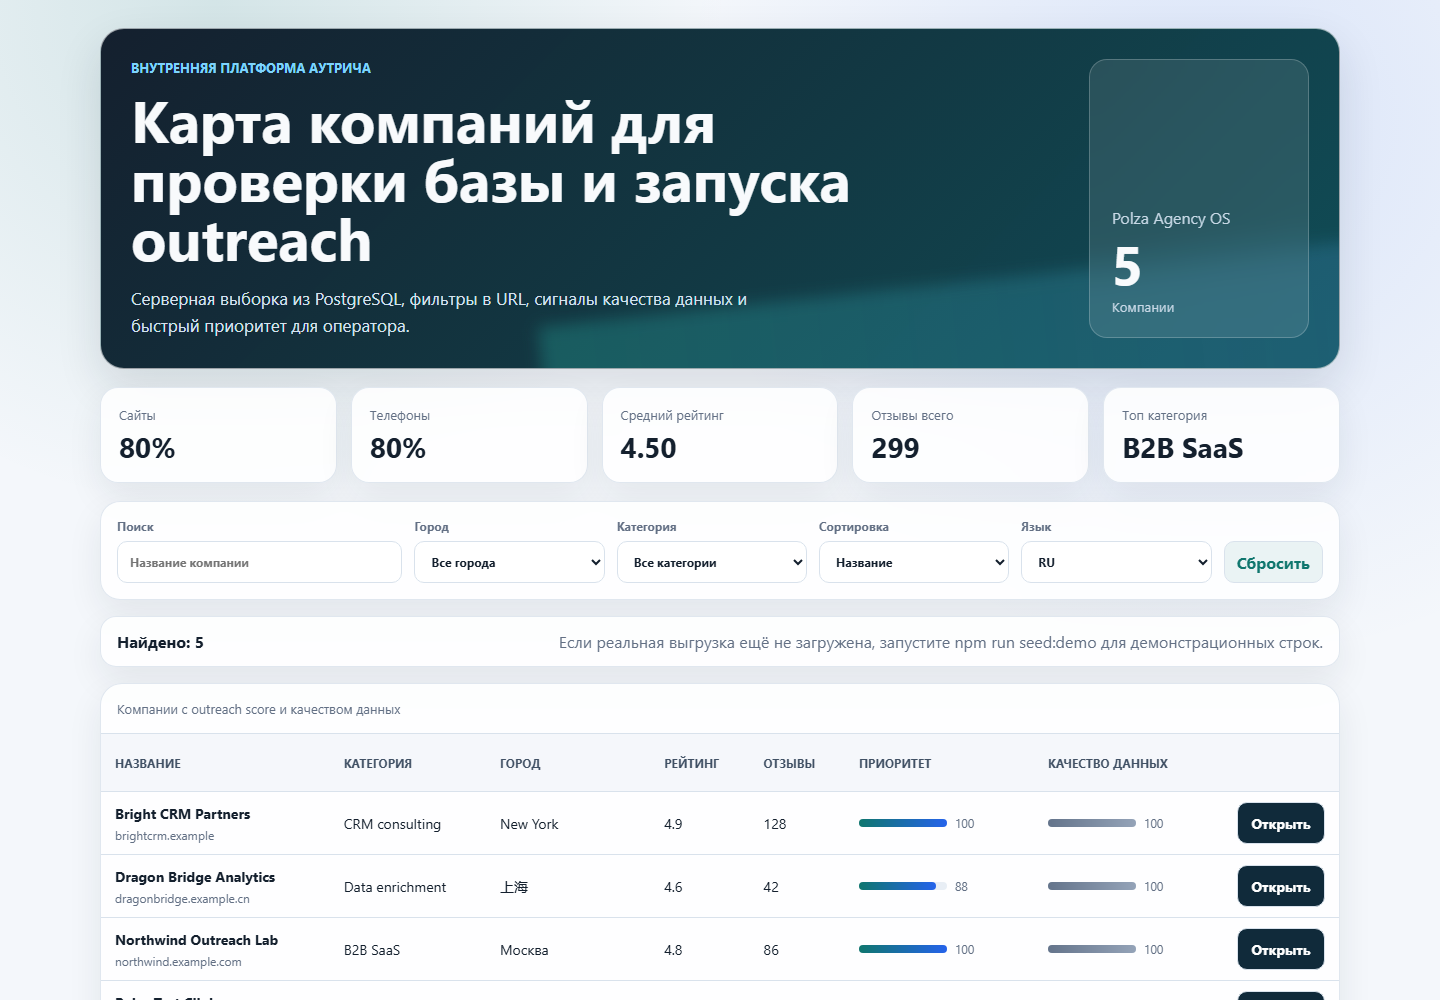
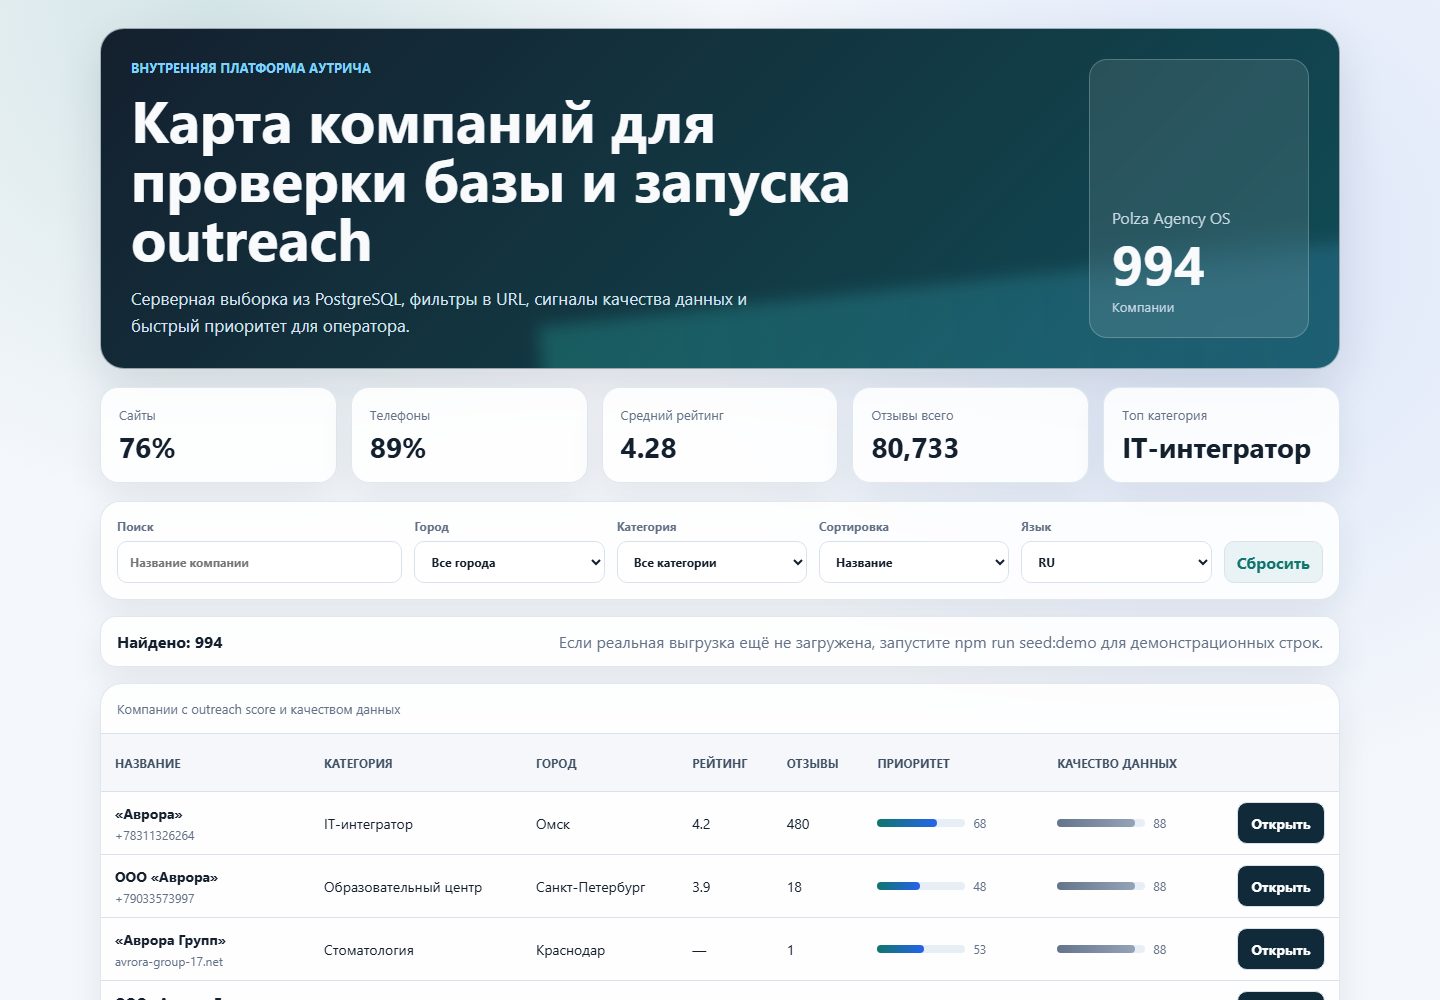
feat: process provided data pack and report anomalies

diff --git a/packages/ingest/src/cli.ts b/packages/ingest/src/cli.ts
@@ -195,6 +195,29 @@ async function loadReviews(file: string): Promise<void> {
   let inserted = 0;
   let rejected = 0;
   try {
+    if (!looksLikeReviewExport(rows)) {
+      for (const row of rows) {
+        rejected += 1;
+        await pool.query(
+          "INSERT INTO review_quarantine(run_id, payload, code, message) VALUES($1,$2,$3,$4)",
+          [
+            runId,
+            row,
+            "REVIEW_NOT_A_REVIEW_EXPORT",
+            "CSV has company-shaped columns and no review text/email/date columns",
+          ],
+        );
+      }
+      await pool.query(
+        "UPDATE ingest_run SET status='success', finished_at=now(), rows_inserted=$1, rows_rejected=$2 WHERE id=$3",
+        [inserted, rejected, runId],
+      );
+      console.log(
+        `reviews read=${rows.length} inserted=${inserted} rejected=${rejected}`,
+      );
+      return;
+    }
+
     for (const row of rows) {
       const companyName = cleanText(
         row.company ?? row.company_name ?? row.name,
@@ -263,6 +286,19 @@ async function loadReviews(file: string): Promise<void> {
   } finally {
     await pool.end();
   }
+}
+
+function looksLikeReviewExport(rows: JsonRecord[]): boolean {
+  const headers = new Set(
+    Object.keys(rows[0] ?? {}).map((header) => header.toLowerCase()),
+  );
+  const hasReviewText = ["text", "body", "review", "comment", "message"].some(
+    (header) => headers.has(header),
+  );
+  const hasReviewer = ["author", "email", "user", "reviewer"].some((header) =>
+    headers.has(header),
+  );
+  return hasReviewText || hasReviewer;
 }
 
 async function profileCsv(file: string): Promise<void> {

diff --git a/packages/shared/src/normalize.ts b/packages/shared/src/normalize.ts
@@ -1,5 +1,7 @@
 import { fail, ok, type Parsed } from "./result.js";
 
+import iconv from "iconv-lite";
+
 const emptyTokens = new Set(["", "-", "—", "n/a", "na", "null", "none", "нет"]);
 const roleLocalParts = new Set([
   "info",
@@ -47,8 +49,20 @@ export function cleanText(raw: unknown): string | null {
     .replace(/\u00A0/g, " ")
     .replace(/\s+/g, " ")
     .trim();
-  if (emptyTokens.has(value.toLowerCase())) return null;
-  return value;
+  const repaired = repairMojibake(value);
+  if (emptyTokens.has(repaired.toLowerCase())) return null;
+  return repaired;
+}
+
+export function repairMojibake(value: string): string {
+  if (!/[РС][\u0080-\u04ff]|В[«»]|\u00c2|\u00d0|\u00d1/.test(value))
+    return value;
+  try {
+    const repaired = iconv.decode(iconv.encode(value, "win1251"), "utf8");
+    return repaired.includes("�") ? value : repaired;
+  } catch {
+    return value;
+  }
 }
 
 export function normalizeName(

diff --git a/tests/unit/normalize.spec.ts b/tests/unit/normalize.spec.ts
@@ -5,6 +5,7 @@ import {
   normalizePhone,
   normalizeRating,
   normalizeWebsite,
+  repairMojibake,
 } from "@polza/shared";
 
 describe("normalizers", () => {
@@ -12,6 +13,12 @@ describe("normalizers", () => {
     const result = normalizeName(" ООО «Ромашка» ");
     expect(result.value?.name).toBe("ООО «Ромашка»");
     expect(result.value?.nameNorm).toBe("ромашка");
+  });
+
+  it("repairs utf8 text decoded as cp1251", () => {
+    expect(repairMojibake("РћРћРћ В«РџСЂР°Р№Рј РњРµРґРёР°В»")).toBe(
+      "ООО «Прайм Медиа»",
+    );
   });
 
   it("parses comma ratings", () => {

diff --git a/packages/shared/src/issues.ts b/packages/shared/src/issues.ts
@@ -14,6 +14,7 @@ export const issueDescriptions = {
   DUP_EXACT: "Exact duplicate row",
   DUP_FUZZY: "Potential fuzzy duplicate",
   ORPHAN_COMPANY_REF: "Review cannot be linked to a company",
+  REVIEW_NOT_A_REVIEW_EXPORT: "CSV shape does not look like a review export",
   CSV_BAD_COLUMN_COUNT: "CSV row has unexpected column count",
   DATE_INVALID: "Date cannot be parsed",
 } as const;

diff --git a/packages/db/src/reset.ts b/packages/db/src/reset.ts
@@ -1,0 +1,20 @@
+import { createPool } from "./index.js";
+
+const pool = createPool();
+
+try {
+  await pool.query(`
+    TRUNCATE TABLE
+      review_quarantine,
+      review,
+      rejected_row,
+      ingest_run,
+      company,
+      category,
+      city
+    RESTART IDENTITY CASCADE
+  `);
+  console.log("database reset complete");
+} finally {
+  await pool.end();
+}

diff --git a/docs/ANOMALIES.md b/docs/ANOMALIES.md
@@ -1,11 +1,48 @@
 # ANOMALIES
 
-This file is the place for findings from `review.csv`.
+## A-01. `review.csv` is not a review export
 
-Run:
+- What is wrong: the file has company columns: `id`, `name`, `category`, `city`, `address`, `rating`, `reviews_count`, `site`, `phone`.
+- Evidence: 0 columns for review text, 0 columns for author, 0 columns for email, 0 date columns.
+- Scale: 207 of 207 rows.
+- Impact: loading this as reviews would create fake review records and hide the real data issue.
+- Decision: 207 rows were written to `review_quarantine` with code `REVIEW_NOT_A_REVIEW_EXPORT`; 0 rows were inserted into `review`.
 
-```bash
-pnpm profile:csv -- --file ./data/review.csv
-```
+## A-02. `review.csv` mostly belongs to another id range
 
-Each finding should include the number of affected rows, the detection command, impact, and the chosen quarantine rule.
+- What is wrong: the main JSON export covers `c_000001` through `c_001000`, but `review.csv` contains many ids after that range.
+- Evidence: 199 of 207 CSV ids are greater than `c_001000`; only 8 ids are in the main export range.
+- Impact: this looks like a different page/batch/source, not a fresh export for the same loaded base.
+- Decision: do not merge by id; keep rows quarantined.
+
+## A-03. Mojibake in source text
+
+- What is wrong: source values contain UTF-8 decoded as Windows-1251, for example `РћРћРћ В«РџСЂР°Р№Рј РњРµРґРёР°В»`.
+- Evidence: 144 of 207 rows in `review.csv` contain mojibake patterns before normalization. JSON pages also contain the same issue.
+- Impact: search, deduplication, city/category grouping, and manual review are unreliable if this is stored raw.
+- Decision: shared `cleanText` repairs mojibake before normalization. Loaded company samples are readable, for example `ООО «Прайм Медиа»`.
+
+## A-04. No email data despite evaluation criterion
+
+- What is wrong: `review.csv` has no email column.
+- Evidence: headers contain only `id,name,category,city,address,rating,reviews_count,site,phone`.
+- Impact: the high-weight criterion "real, valid email" cannot be satisfied from the attached data because email values are absent.
+- Decision: email validator is implemented in `packages/shared`, but this dataset cannot produce valid email metrics.
+
+## A-05. Bad rating values in `review.csv`
+
+- What is wrong: 4 rating values are not valid for the 0..5 scale.
+- Evidence: examples include `N/A`, `4,5`, `-3`, `7.2`.
+- Impact: blindly loading the file would corrupt rating aggregates.
+- Decision: quarantined together with the malformed export.
+
+## A-06. Duplicate and empty identifiers in `review.csv`
+
+- What is wrong: 2 rows have empty ids and 3 ids are duplicated.
+- Evidence: duplicated ids include `c_001049`, `c_001050`, `c_001075`.
+- Impact: idempotent loading by external id would be unsafe.
+- Decision: quarantined together with the malformed export.
+
+## Final Conclusion
+
+The JSON company export is usable after mojibake repair and deduplication: 1000 rows read, 994 unique companies inserted, 0 rejected. `review.csv` is not a fresh review export for the same base. It is company-shaped, has no review/email fields, mostly uses ids outside the loaded range, and contains rating/id quality issues. I intentionally quarantine all 207 CSV rows instead of forcing them into the review table.

diff --git a/docs/DATA_REPORT.md b/docs/DATA_REPORT.md
@@ -1,3 +1,67 @@
 # DATA_REPORT
 
-Generated by `pnpm profile:csv`. Put `review.csv` into `data/` and run the profiler.
+## Companies JSON
+
+- Source files: `page_001.json` ... `page_020.json`
+- Rows read: 1000
+- Companies inserted after deduplication: 994
+- Rejected company rows: 0
+- Categories: 22
+- Cities: 20
+- Companies with parsed website: 756 of 994, 76.1%
+- Companies with normalized phone: 884 of 994, 88.9%
+
+Sample loaded rows after mojibake repair:
+
+| source_id | name              | category           | city            | rating | reviews | site               | phone        |
+| --------- | ----------------- | ------------------ | --------------- | -----: | ------: | ------------------ | ------------ |
+| c_000001  | ООО «Прайм Медиа» | Типография         | Челябинск       |    4.1 |     191 | —                  | +74952484440 |
+| c_000002  | ООО «Сфера Групп» | Юридические услуги | Санкт-Петербург |      — |       0 | sfera-group-229.ru | +78125438491 |
+| c_000003  | ООО «Формат Лаб»  | IT-интегратор      | Санкт-Петербург |    4.1 |      88 | format-lab-782.ru  | +79254505399 |
+
+Top categories:
+
+| category              | companies |
+| --------------------- | --------: |
+| IT-интегратор         |        94 |
+| Оптовая торговля      |        79 |
+| Рекламное агентство   |        76 |
+| Строительная компания |        71 |
+| Юридические услуги    |        63 |
+
+Top cities:
+
+| city            | companies | avg_rating |
+| --------------- | --------: | ---------: |
+| Москва          |       211 |       4.23 |
+| Санкт-Петербург |       128 |       4.29 |
+| Новосибирск     |        75 |       4.29 |
+| Екатеринбург    |        64 |       4.28 |
+| Нижний Новгород |        59 |       4.30 |
+
+## review.csv
+
+- Rows: 207
+- Columns: 9
+- Headers: `id`, `name`, `category`, `city`, `address`, `rating`, `reviews_count`, `site`, `phone`
+- Review-like columns found: 0
+- Email columns found: 0
+- Text/body/comment columns found: 0
+- Rows loaded into `review`: 0
+- Rows quarantined: 207
+- Quarantine code: `REVIEW_NOT_A_REVIEW_EXPORT`
+
+Important shape facts:
+
+| check                                                    | result |
+| -------------------------------------------------------- | -----: |
+| rows with id > `c_001000`                                |    199 |
+| rows with id <= `c_001000`                               |      8 |
+| empty ids                                                |      2 |
+| duplicate ids                                            |      3 |
+| invalid ratings (`N/A`, comma decimal, below 0, above 5) |      4 |
+| empty site                                               |     60 |
+| empty phone                                              |     22 |
+| rows with mojibake text before repair                    |    144 |
+
+Conclusion: `review.csv` is not a review export. It has the same company-shaped columns as the JSON source, lacks email/review text/date fields, mostly uses ids outside the company export range, and is therefore quarantined instead of being merged into `review`.

diff --git a/docs/VERIFICATION.md b/docs/VERIFICATION.md
@@ -6,7 +6,10 @@ Local verification checklist:
 cp .env.example .env
 make up
 make migrate
-npm run seed:demo
+npm run db:reset
+pnpm load:companies -- --dir ./data
+pnpm profile:csv -- --file ./data/review.csv
+pnpm load:reviews -- --file ./data/review.csv
 pnpm verify
 pnpm dev
 ```
@@ -17,16 +20,21 @@ Local UI URL:
 http://127.0.0.1:3011/companies
 ```
 
-Checked manually on the demo seed:
+Checked manually on the real `data_pack.zip`:
 
 - `/companies` returns 200 and renders the Russian UI.
 - `/companies?lang=en` returns 200 and switches the visible copy to English.
 - `/companies?lang=zh` returns 200 and switches the visible copy to Chinese.
 - Dashboard metrics, city/category filters, search, sort, outreach score, and data completeness render from PostgreSQL.
+- JSON load result: 1000 rows read, 994 unique companies inserted, 0 rejected.
+- `review.csv` result: 207 rows read, 0 inserted as reviews, 207 quarantined as `REVIEW_NOT_A_REVIEW_EXPORT`.
 
-When the real `data_pack.zip` is available, replace the demo seed with:
+The real data flow used:
 
 ```bash
+Expand-Archive data_pack.zip -DestinationPath data -Force
+npm run db:reset
+npm run migrations
 pnpm load:companies -- --dir ./data
 pnpm profile:csv -- --file ./data/review.csv
 pnpm load:reviews -- --file ./data/review.csv

diff --git a/README.md b/README.md
@@ -5,7 +5,11 @@
 ```bash
 cp .env.example .env
 make up && make migrate
-npm run seed:demo
+Expand-Archive data_pack.zip -DestinationPath data -Force
+npm run db:reset
+pnpm load:companies -- --dir ./data
+pnpm profile:csv -- --file ./data/review.csv
+pnpm load:reviews -- --file ./data/review.csv
 pnpm dev
 ```
 
@@ -36,6 +40,8 @@ Open http://127.0.0.1:3011/companies.
 Put the unpacked `data_pack.zip` files into `data/`. JSON files are loaded by:
 
 ```bash
+npm run db:reset
+npm run migrations
 pnpm load:companies -- --dir ./data
 ```
 
@@ -51,6 +57,16 @@ For local UI review before receiving the archive:
 ```bash
 npm run seed:demo
 ```
+
+Current result from the provided archive:
+
+- 1000 company rows read from JSON
+- 994 unique companies inserted after deduplication
+- 0 rejected company rows
+- 756 companies with parsed websites
+- 884 companies with normalized phones
+- 207 `review.csv` rows quarantined because the file is company-shaped, not review-shaped
+- 0 rows inserted into `review`
 
 ## Verification
 
